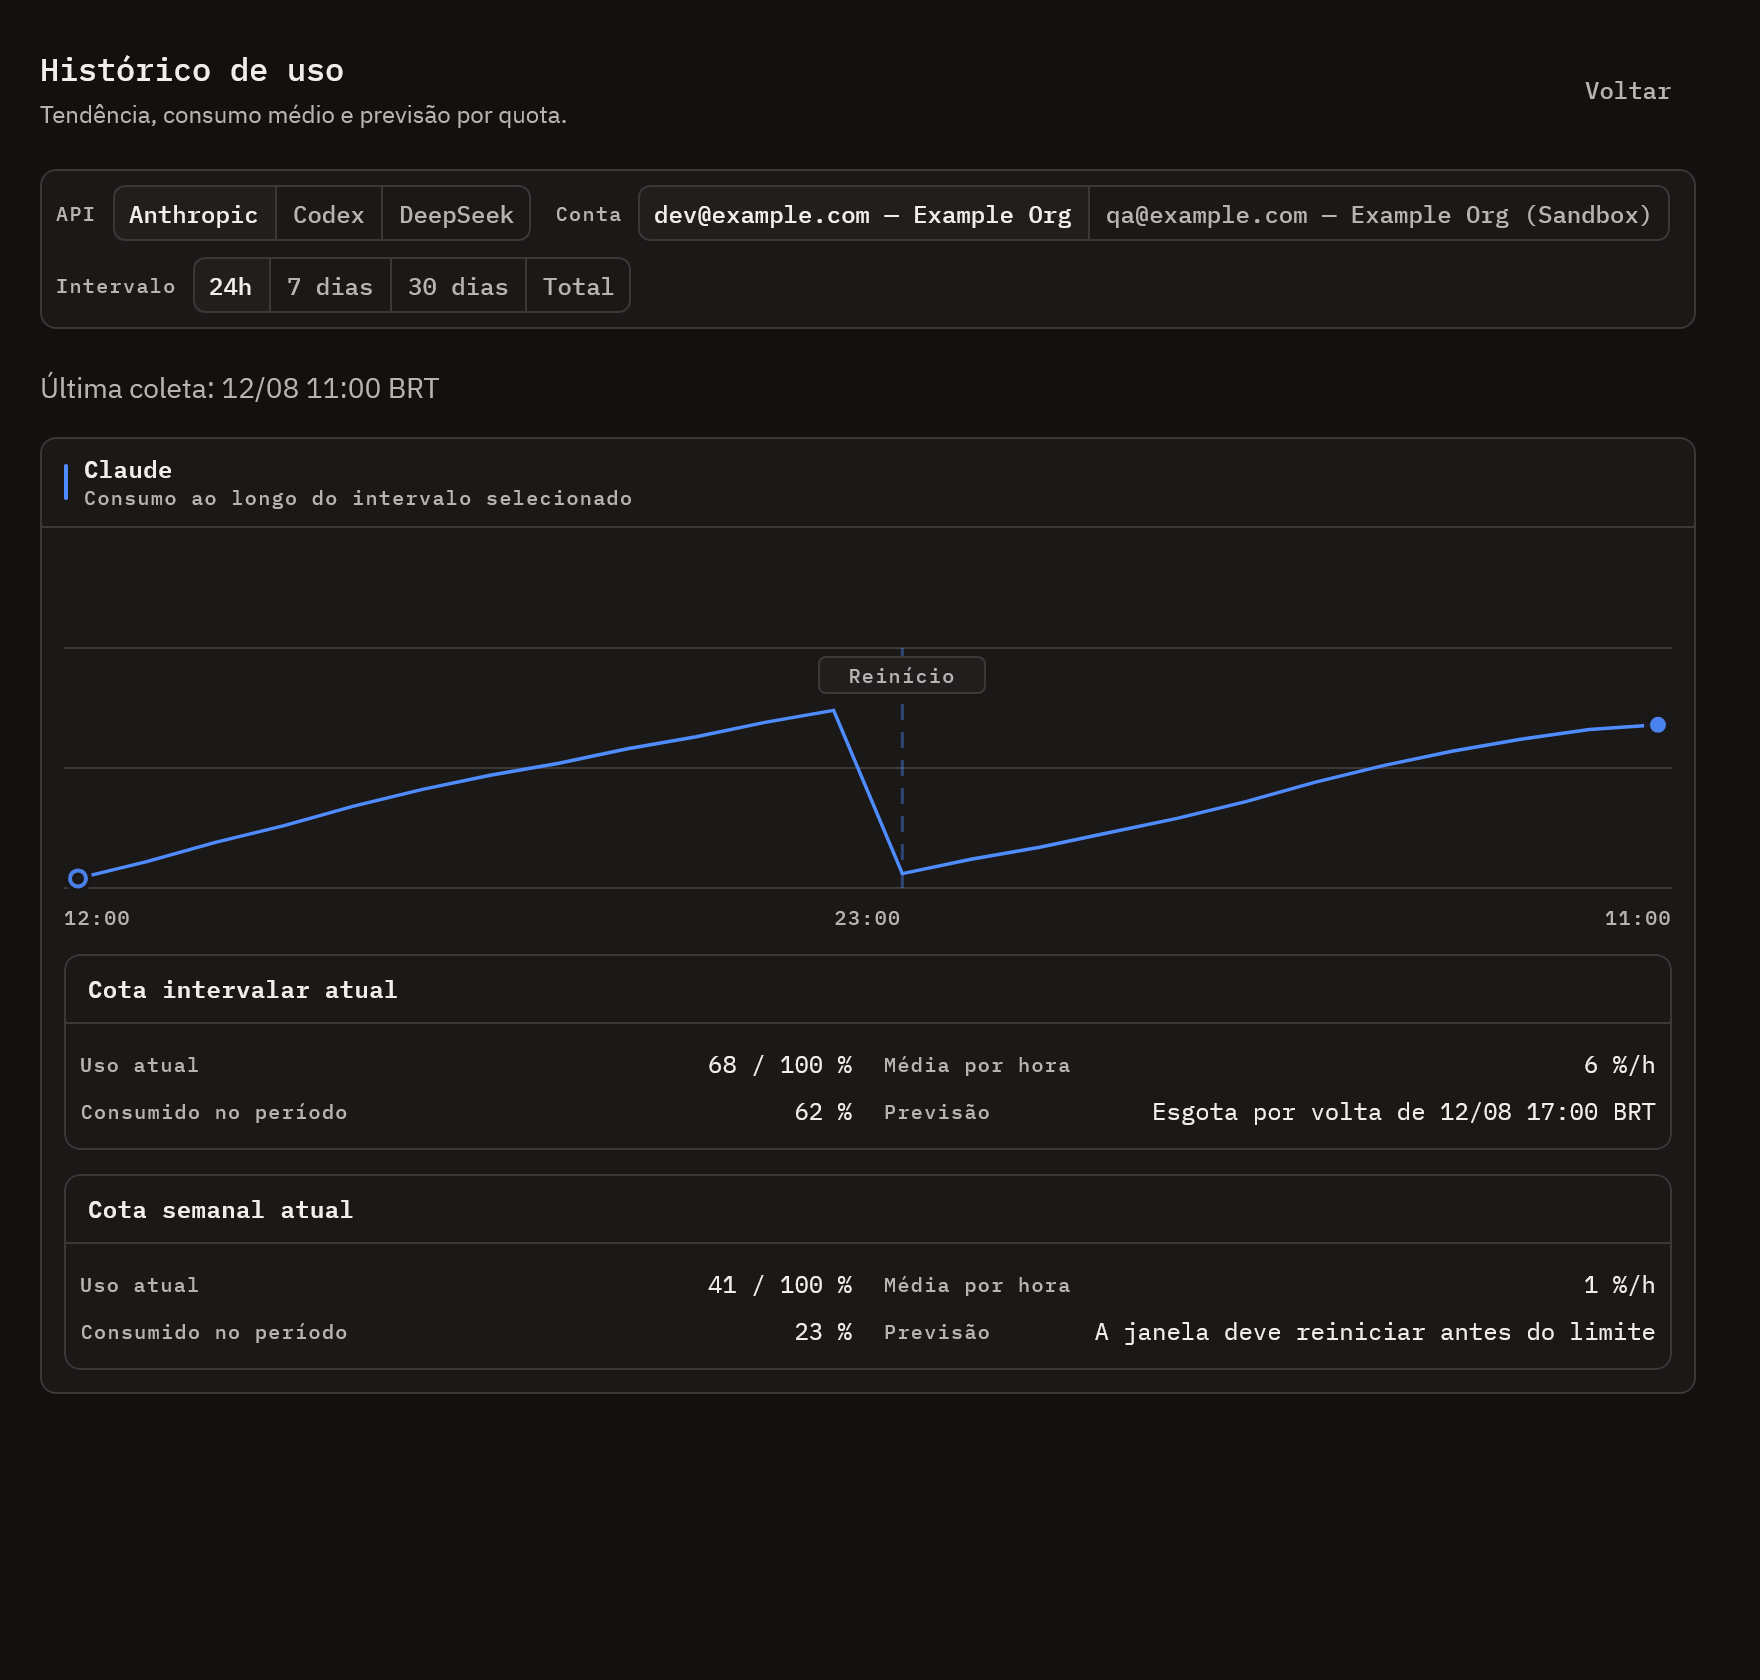
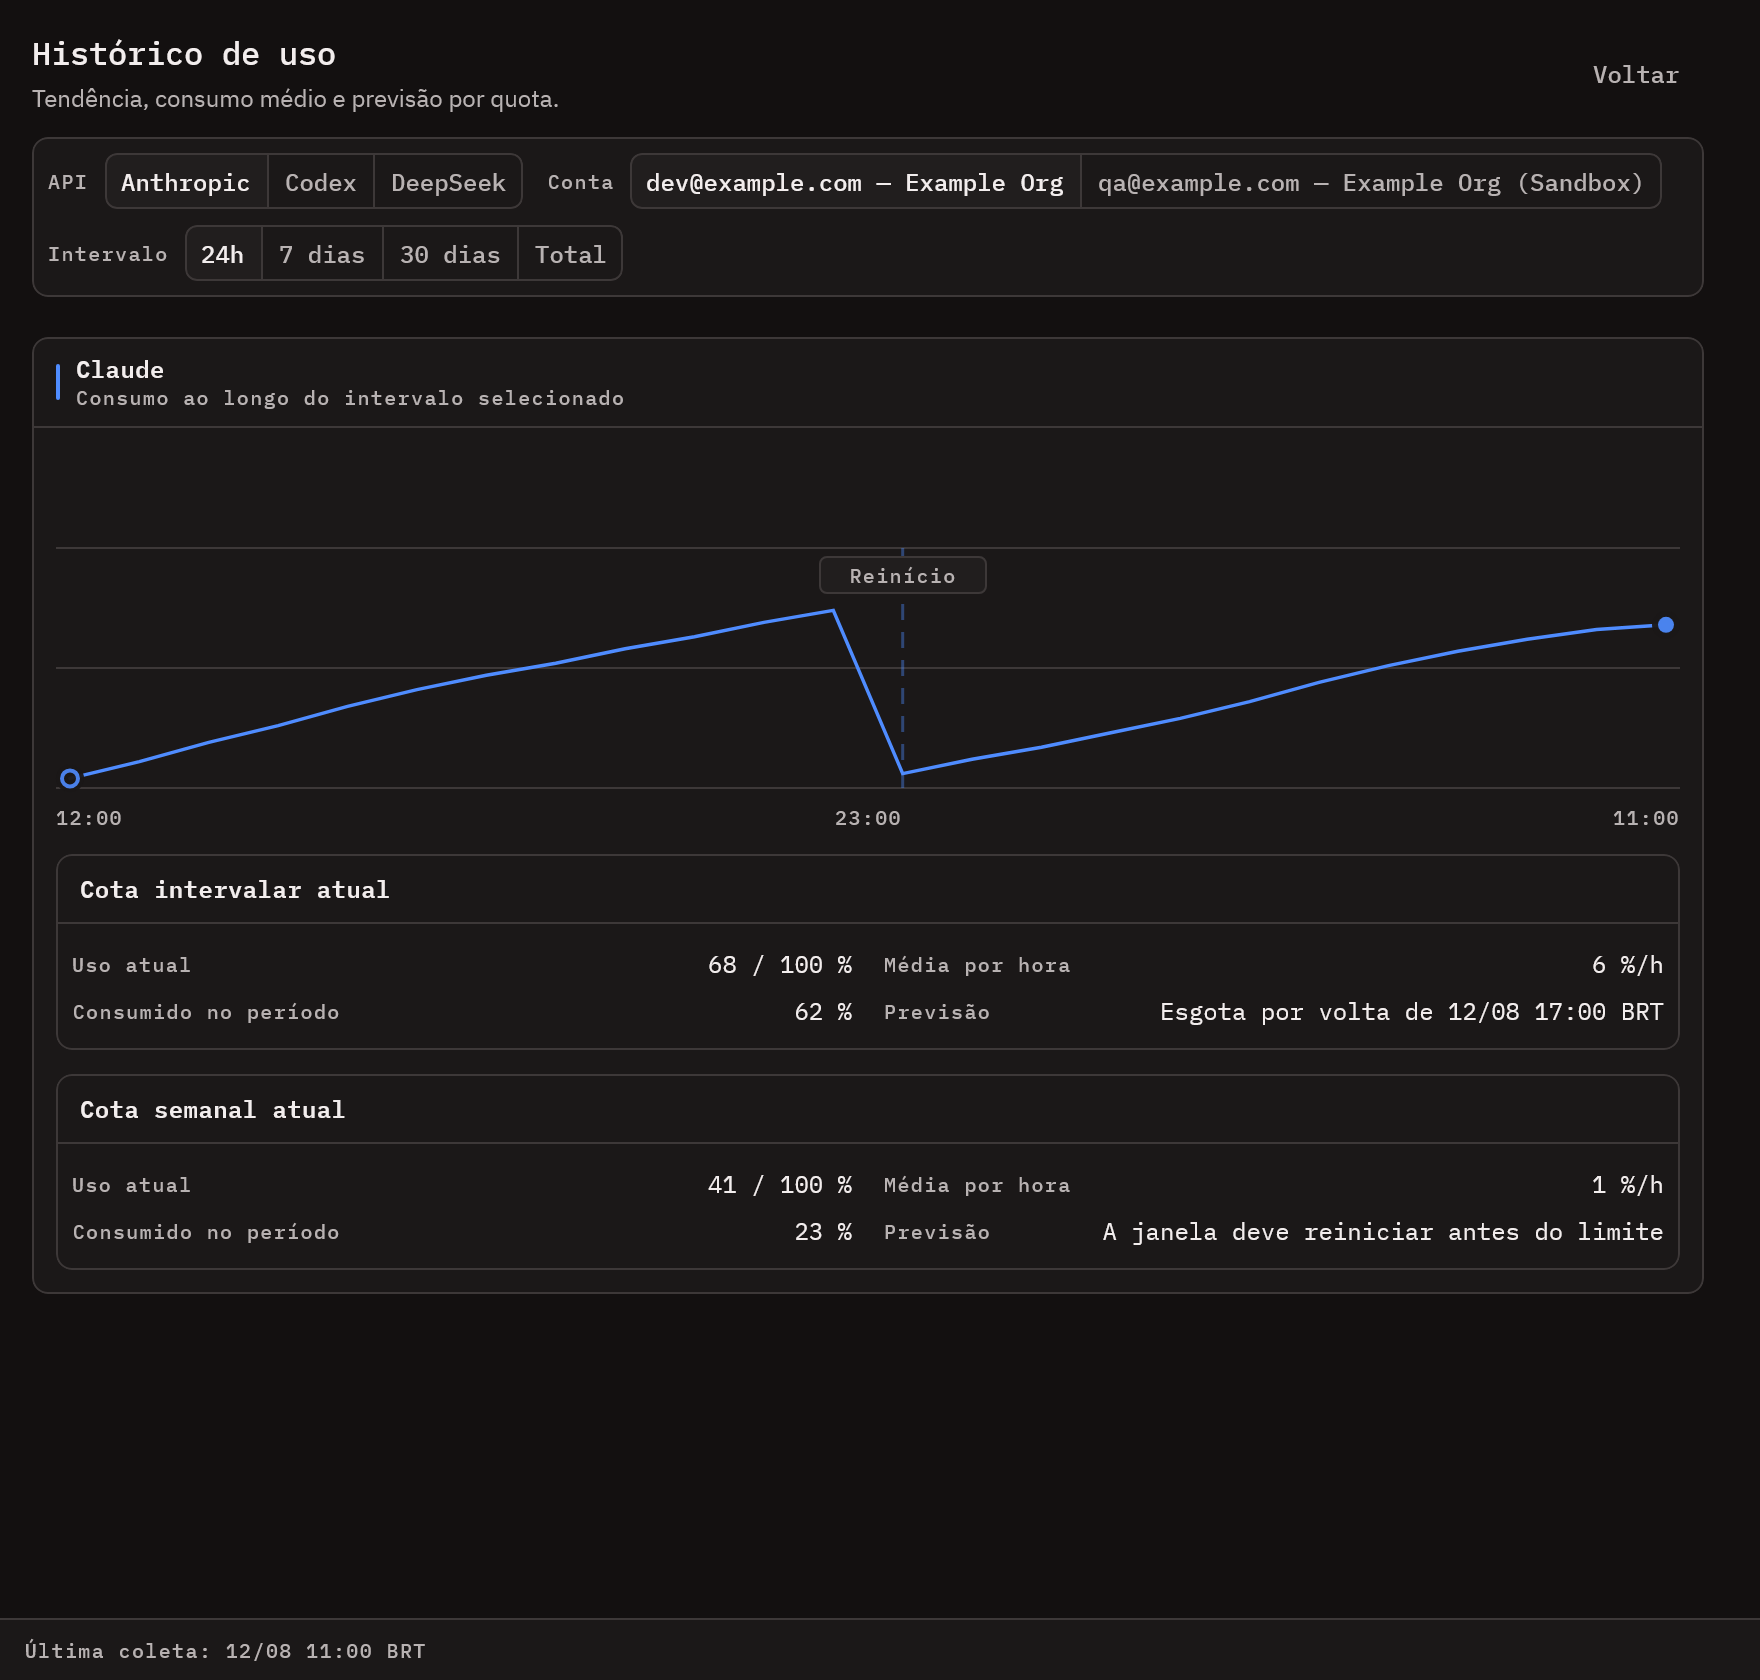
refactor(history): adopt the window scaffold and the status bar
A janela montava o proprio corpo com padding 20/24 e vao de 20 — tres valores
fora da grade de 4/8/12/16/24/32 — e o rotulo da ultima coleta era um `Text`
solto acima da primeira serie, repetido em dois dos quatro ramos por fonte e
ausente nos outros dois.

Agora e `AppWindowScaffold`, a primitiva que existia desde a Fase C e nao tinha
um unico uso em tela nenhuma: fundo, grade e a barra de estado como ultima linha,
fora da area rolavel. O padding fica na coluna interna porque e ela que rola —
no scaffold, a margem de baixo cortaria o conteudo em vez de acompanha-lo.

Sem `Success` nao ha coleta a datar e a barra nao e composta: 30dp de cromo vazio
nao informam nada.

diff --git a/src/commonMain/kotlin/com/usagemonitor/presentation/ui/HistoryScreen.kt b/src/commonMain/kotlin/com/usagemonitor/presentation/ui/HistoryScreen.kt
@@ -17,6 +17,7 @@ import androidx.compose.foundation.layout.Column
 import androidx.compose.foundation.layout.ExperimentalLayoutApi
 import androidx.compose.foundation.layout.FlowRow
 import androidx.compose.foundation.layout.Row
+import androidx.compose.foundation.layout.RowScope
 import androidx.compose.foundation.layout.Spacer
 import androidx.compose.foundation.layout.fillMaxHeight
 import androidx.compose.foundation.layout.fillMaxSize
@@ -45,6 +46,7 @@ import androidx.compose.ui.graphics.Color
 import androidx.compose.ui.graphics.graphicsLayer
 import androidx.compose.ui.platform.testTag
 import androidx.compose.ui.text.style.TextAlign
+import androidx.compose.ui.text.style.TextOverflow
 import androidx.compose.ui.unit.dp
 import kotlin.math.roundToLong
 import kotlinx.coroutines.delay
@@ -71,6 +73,7 @@ import com.usagemonitor.presentation.ui.components.AppDataSurfaceFlush
 import com.usagemonitor.presentation.ui.components.AppSectionHeader
 import com.usagemonitor.presentation.ui.components.AppSegment
 import com.usagemonitor.presentation.ui.components.AppSegmentedControl
+import com.usagemonitor.presentation.ui.components.AppWindowScaffold
 import com.usagemonitor.presentation.ui.components.UsageHistoryLineChart
 import com.usagemonitor.presentation.ui.theme.AppMotion
 import com.usagemonitor.presentation.ui.theme.AppSpacing
@@ -114,18 +117,40 @@ fun HistoryScreen(
         HistoryUiState.Loading -> focusedSource
     }
 
-    Surface(
+    // Sem `Success` não há coleta a datar, e uma barra de 30dp vazia é cromo que
+    // não informa nada. O tipo da variável é anotado porque é ele que faz a
+    // lambda de dentro do `let` ser reconhecida como `@Composable`.
+    val statusBarContent: (@Composable RowScope.() -> Unit)? =
+        (state as? HistoryUiState.Success)?.let { success ->
+            {
+                Text(
+                    text = lastUpdatedLabel(success.report.lastUpdatedAt, language),
+                    style = MaterialTheme.typography.labelSmall,
+                    color = MaterialTheme.colorScheme.onSurfaceVariant,
+                    maxLines = 1,
+                    overflow = TextOverflow.Ellipsis
+                )
+            }
+        }
+
+    // Corpo de janela do sistema: fundo, grade de espaçamento e a barra de estado
+    // como última linha, fora da área rolável. O padding entra na coluna interna,
+    // não no scaffold, porque é ela que rola — com o padding no scaffold, a
+    // margem de baixo cortaria o conteúdo em vez de acompanhá-lo.
+    AppWindowScaffold(
         modifier = modifier.fillMaxSize(),
-        color = MaterialTheme.colorScheme.background
+        contentPadding = 0.dp,
+        spacing = 0.dp,
+        statusBar = statusBarContent
     ) {
         Box(modifier = Modifier.fillMaxSize()) {
             Column(
                 modifier = Modifier
                     .fillMaxSize()
                     .verticalScroll(scrollState)
-                    .padding(horizontal = 20.dp, vertical = 24.dp)
-                    .padding(end = 12.dp),
-                verticalArrangement = Arrangement.spacedBy(20.dp)
+                    .padding(AppSpacing.lg)
+                    .padding(end = AppSpacing.md),
+                verticalArrangement = Arrangement.spacedBy(AppSpacing.md)
             ) {
                 HistoryHeader(
                     language = language,
@@ -223,12 +248,6 @@ fun HistoryScreen(
                                         )
                                     } else if (current.report.source == ApiSource.CODEX) {
                                         Column(verticalArrangement = Arrangement.spacedBy(16.dp)) {
-                                            Text(
-                                                text = lastUpdatedLabel(current.report.lastUpdatedAt, language),
-                                                style = MaterialTheme.typography.bodyMedium,
-                                                color = MaterialTheme.colorScheme.onSurfaceVariant
-                                            )
-
                                             current.report.series.forEachIndexed { index, series ->
                                                 key(
                                                     series.quotaLabel +
@@ -257,12 +276,6 @@ fun HistoryScreen(
                                         }
 
                                         Column(verticalArrangement = Arrangement.spacedBy(16.dp)) {
-                                            Text(
-                                                text = lastUpdatedLabel(current.report.lastUpdatedAt, language),
-                                                style = MaterialTheme.typography.bodyMedium,
-                                                color = MaterialTheme.colorScheme.onSurfaceVariant
-                                            )
-
                                             cardModels.forEachIndexed { index, model ->
                                                 key(
                                                     model.baseLabel +
@@ -305,6 +318,15 @@ fun HistoryScreen(
         }
     }
 }
+
+/**
+ * O rótulo da última coleta, agora no rodapé.
+ *
+ * Ele era um `Text` solto acima da primeira série, repetido em dois dos quatro
+ * ramos por fonte — o do Codex e o genérico —, e ausente nos outros dois. Como
+ * barra de estado ele vale para as quatro, sai da área rolável e para de
+ * competir com o gráfico pelo topo da janela.
+ */
 
 @Composable
 private fun HistoryHeader(
